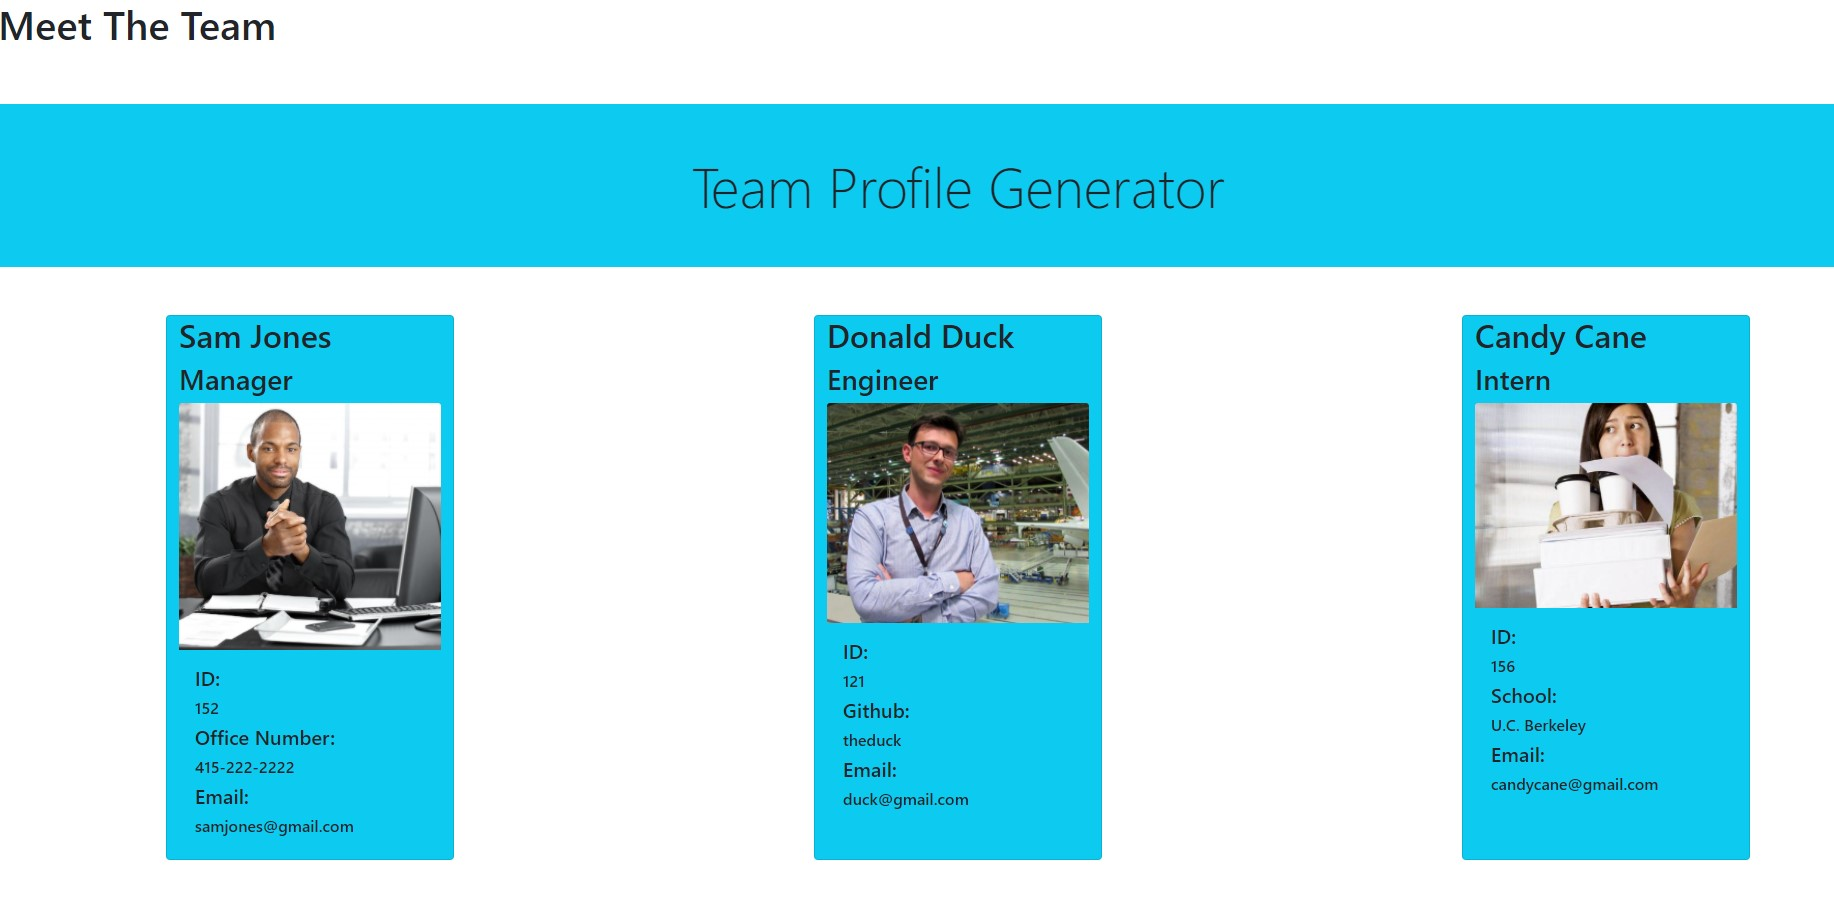
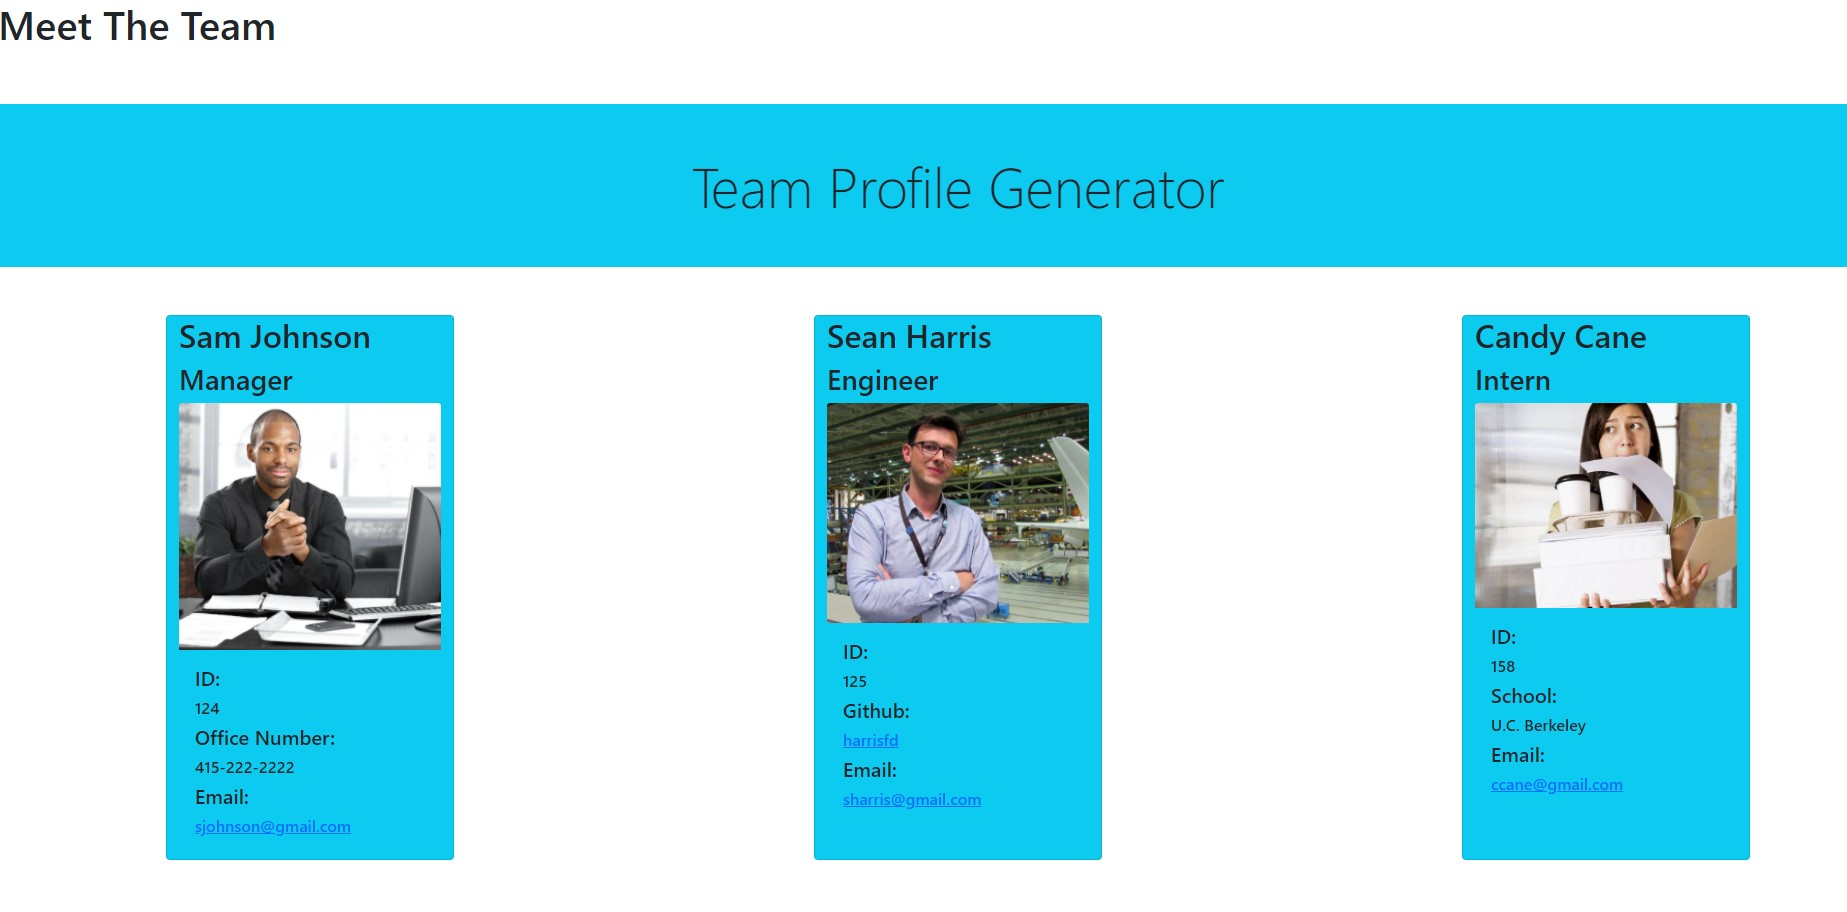
revised demo recording to reflect changes to program

diff --git a/dist/index.html b/dist/index.html
@@ -25,32 +25,32 @@
 
 </div>
     <div class="card mx-auto text-dark bg-info mb-3" style="width: 18rem;">
-                <h2>Felkehja</h2>
+                <h2>Sam Johnson</h2>
                 <h3>Manager</h3>
                 <img src="../Images/Manager.jpg" class="card-img-top" alt="...">
                 <div class="card-body">
-                <h5>ID:<h5><h6 class="card-title">dalkdja;</h6>
+                <h5>ID:<h5><h6 class="card-title">124</h6>
                 <h5>Office Number:<h5><h6 class="card-title">415-222-2222</h6>
-                  <h5>Email:<h5><h6 class="card-title"><a href="mailto:fharrisfoster@gmail.com">fharrisfoster@gmail.com </a></h6>  
+                  <h5>Email:<h5><h6 class="card-title"><a href="mailto:sjohnson@gmail.com">sjohnson@gmail.com </a></h6>  
                 </div>
                 </div><div class="card mx-auto text-dark bg-info mb-3" style="width: 18rem;">
-<h2>kdjalskj</h2>
-<h3>Intern</h3>
-<img src="../Images/Intern.jpg" class="card-img-top" alt="...">
-<div class="card-body">
-<h5>ID:<h5><h6 class="card-title">kdjla</h6>
-<h5>School:<h5><h6 class="card-title">y</h6>
-<h5>Email:<h5><h6 class="card-title"><a href="mailto:caytonfd@gmail.com">caytonfd@gmail.com</a></h6>  
-</div>
-</div><div class="card mx-auto text-dark bg-info mb-3" style="width: 18rem;">
-                <h2>fladkjal;</h2>
+                <h2>Sean Harris</h2>
                 <h3>Engineer</h3>
                 <img src="../Images/Engineer.jpg" class="card-img-top" alt="...">
                 <div class="card-body">
-                <h5>ID:<h5> <h6 class="card-title">dkaj</h6>
+                <h5>ID:<h5> <h6 class="card-title">125</h6>
                 <h5>Github:<h5><h6 class="card-title"> <a href="http://www.github.com/harrisfd">harrisfd</a></h6>
-                <h5>Email:<h5><h6 class="card-title"><a href="mailto:djkdja">djkdja </a></h6>  
+                <h5>Email:<h5><h6 class="card-title"><a href="mailto:sharris@gmail.com">sharris@gmail.com </a></h6>  
                 </div>
-                </div></div>
+                </div><div class="card mx-auto text-dark bg-info mb-3" style="width: 18rem;">
+<h2>Candy Cane</h2>
+<h3>Intern</h3>
+<img src="../Images/Intern.jpg" class="card-img-top" alt="...">
+<div class="card-body">
+<h5>ID:<h5><h6 class="card-title">158</h6>
+<h5>School:<h5><h6 class="card-title">U.C. Berkeley</h6>
+<h5>Email:<h5><h6 class="card-title"><a href="mailto:ccane@gmail.com">ccane@gmail.com</a></h6>  
+</div>
+</div></div>
     </body>
     </html>

diff --git a/README.md b/README.md
@@ -21,6 +21,7 @@ https://github.com/harrisfd/teamprofilefdh
 
 When a manager is prompted for their team member's information for the following interns and engineers, then an HTML file is generated displaying a nicely formatted team roster including email address, github username, and manager's phone number, which will open in a new tab. For managers, their information including office number will be displayed, interns will display school, and engineer will display their github name. 
 
+Demonstration Video: https://screencast-o-matic.com/watch/crf3qlVe6oM
 
 ## Roadmap
 
